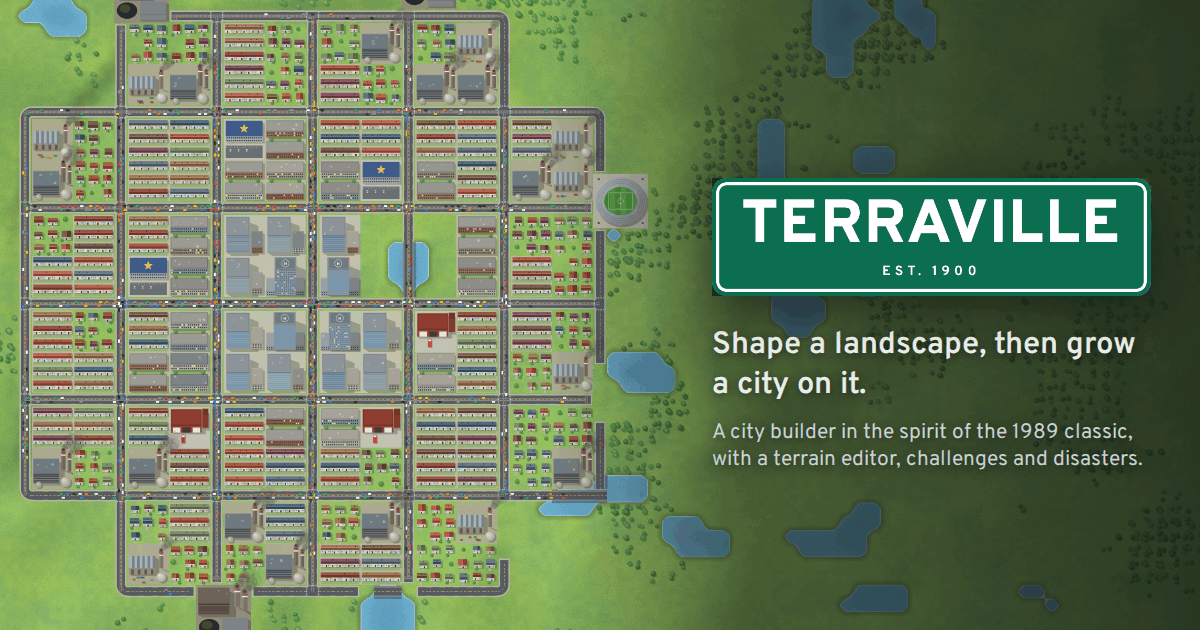
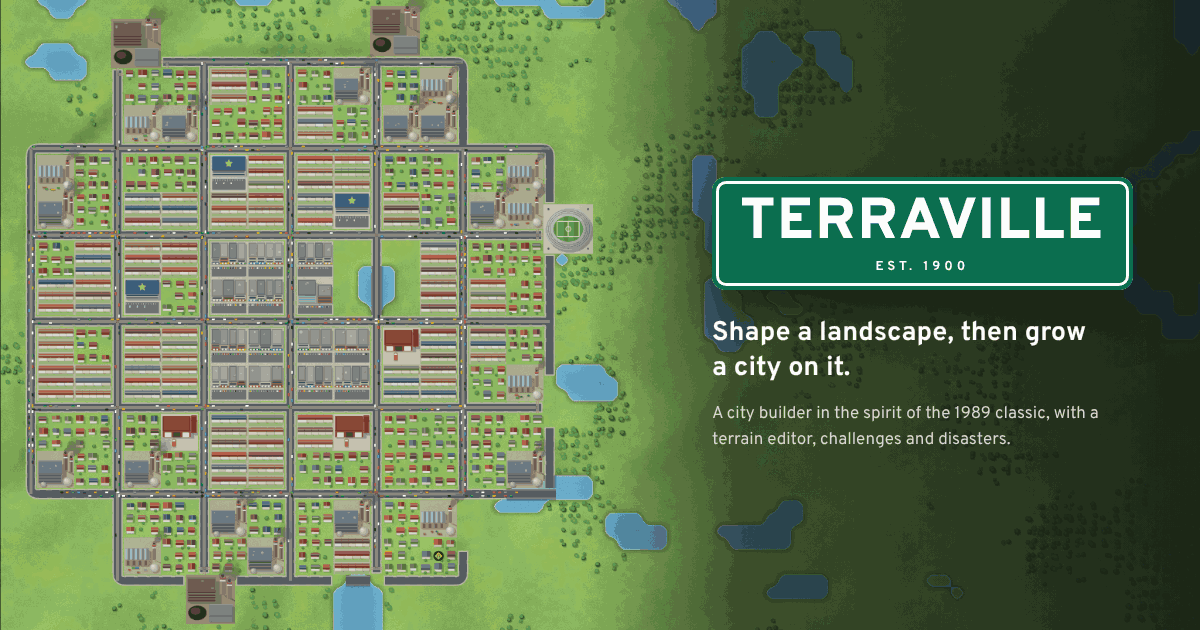
Make og.png and README phone pictures from the game with tools/screenshots.mjs
The link preview was a screenshot nothing here could make again: 272 KB,
and showing Gridlock as it opened a month ago, with glass towers it no
longer has. tools/screenshots.mjs, from the house kit, now serves the
built page, seeds Math.random and writes og.png in the same card style
(Gridlock on the left, the sign and its line over the dark side), saved
with a 64-colour palette at 150 KB, and three phone pictures at 390x844
@2x for a row at the top of the README: the title screen, Gridlock and
the terrain editor. upng-js is the palette encoder, as a dev dependency.
None of these is in the offline copy's list.

Claude-Session: https://claude.ai/code/session_01U4NCH5A3JXvJRZeeoFsXjY

diff --git a/README.md b/README.md
@@ -4,6 +4,12 @@ A city builder in the spirit of the 1989 original and its companion terrain edit
 
 Play it at [terraville.junkdrawer.works](https://terraville.junkdrawer.works/), or open `index.html` in any current browser. It is a single self-contained file: no server needed. At its own address it also installs as an app (from the browser's menu, or Share → Add to Home Screen on an iPhone) and works offline.
 
+<p align="center">
+  <img src="docs/phone-title.png" width="250" alt="The title screen on a phone: the green TERRAVILLE sign over a map, a line about the game, and buttons to start a new city, shape the land first, play a challenge, read the strategy guide or open a saved city.">
+  <img src="docs/phone-city.png" width="250" alt="The Gridlock challenge on a phone: blocks of houses, apartments, shops and factories on a road grid, the goal card with its traffic, residents and jobs targets, the date, funds and speed buttons at the top, and the tools along the bottom.">
+  <img src="docs/phone-editor.png" width="250" alt="The terrain editor on a phone: a wooded coastline with a lake, the Generate land panel open on its five landscapes, three map sizes and the Sea and Mountains sliders, and the brushes along the bottom with Raise picked.">
+</p>
+
 ## What's in it
 
 **Terrain editor**
@@ -97,6 +103,7 @@ npm test             # unit checks for terrain, power, traffic, saves, undo, dis
 npm run typecheck    # tsc --noEmit
 npm run bot -- 30    # a bot plays 30 years and prints a yearly summary
 npm run balance -- 30 # a tidy grid city simulated for 30 years, a line a year
+node tools/screenshots.mjs # og.png and docs/phone-*.png, from the built index.html
 ```
 
 Source lives in `src/`:
@@ -115,6 +122,6 @@ Source lives in `src/`:
 | `render/` | Chunk-cached canvas renderer, procedural sprites, terrain painter, vehicles, minimap |
 | `ui/` | Top bar, toolbox, dialogs and charts |
 
-Everything in the game is drawn in code. The lettering is Overpass and Overpass Mono, served from here so nothing loads from elsewhere: `fonts/` holds their latin letters under the SIL Open Font License (`fonts/OFL.txt`); the build puts them inside `index.html`, and `privacy.html` loads them from there. The only images are the app icons and the link preview: `icon.svg`, with `tools/icon-full-bleed.svg` for the edge-to-edge versions and `tools/icon-maskable.svg` for Android's, its art drawn smaller to keep inside the circle Android crops it to, and the `icon-*.png` sizes that `node tools/make-icons.mjs` renders from them for `manifest.webmanifest`; and `og.png`, the picture a shared link shows, a screenshot that nothing here remakes. `sw.js` keeps the offline copy and opens from it when the connection isn't answering. `FILES` in it is a fingerprint of the files it keeps: after a rebuild `npm test` says what to set it to, so a release never leaves the copy half old.
+Everything in the game is drawn in code. The lettering is Overpass and Overpass Mono, served from here so nothing loads from elsewhere: `fonts/` holds their latin letters under the SIL Open Font License (`fonts/OFL.txt`); the build puts them inside `index.html`, and `privacy.html` loads them from there. The only images are the app icons and the link preview: `icon.svg`, with `tools/icon-full-bleed.svg` for the edge-to-edge versions and `tools/icon-maskable.svg` for Android's, its art drawn smaller to keep inside the circle Android crops it to, and the `icon-*.png` sizes that `node tools/make-icons.mjs` renders from them for `manifest.webmanifest`; and `og.png`, the picture a shared link shows, which `node tools/screenshots.mjs` makes from the built page, with the phone pictures in `docs/` (it needs `npm install` first, for the encoder that saves them with a palette). `sw.js` keeps the offline copy and opens from it when the connection isn't answering. `FILES` in it is a fingerprint of the files it keeps: after a rebuild `npm test` says what to set it to, so a release never leaves the copy half old.
 
 `index.html` is the built game and is committed, so GitHub Pages can serve the repository root as is (`.nojekyll` skips the Jekyll step). Rebuild it with `npm run build` after changing anything in `src/`; `npm test` stops before the browser checks if `index.html` is older than `src/`.
